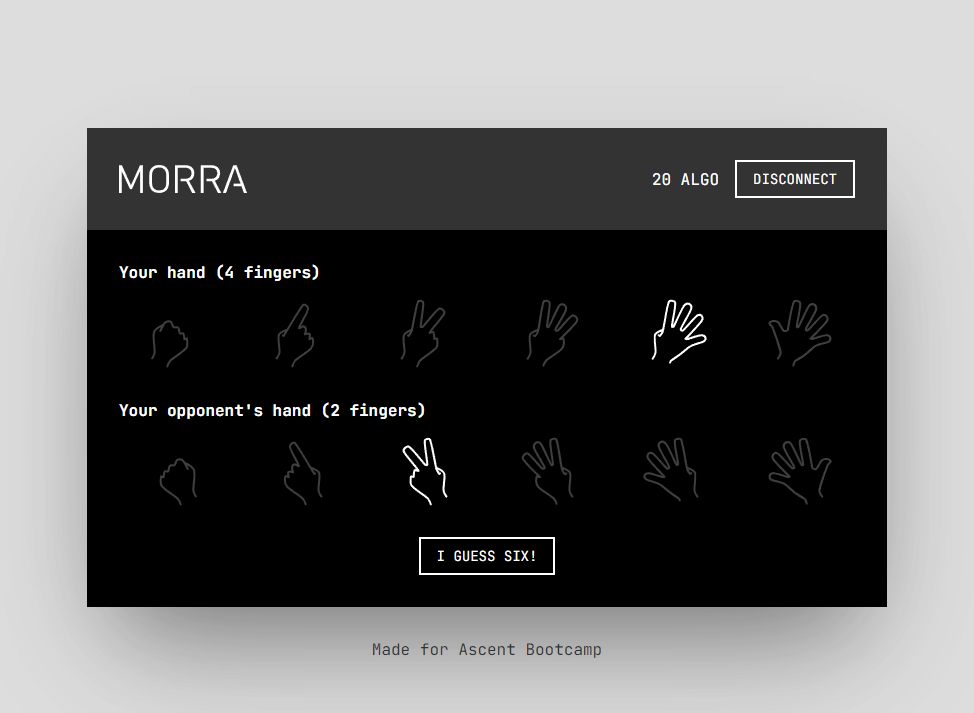
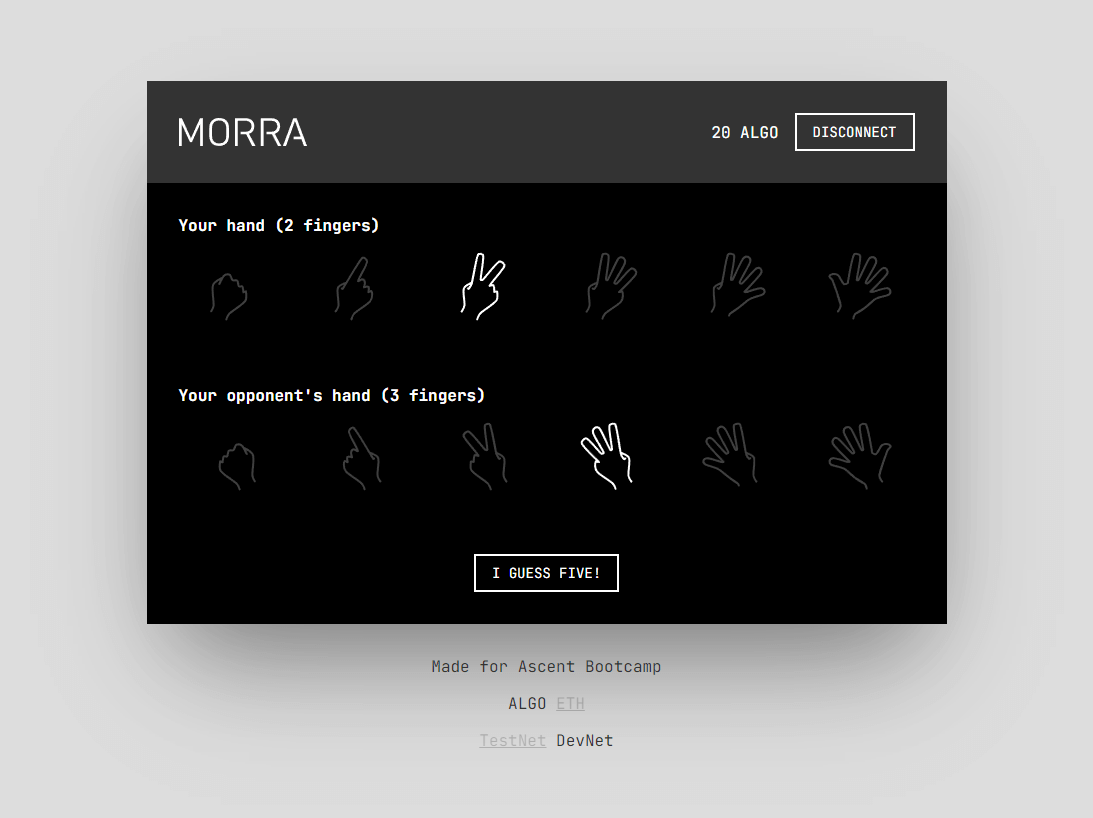
Add ability to switch chain and env

diff --git a/frontend/src/contexts/Reach/Reach.jsx b/frontend/src/contexts/Reach/Reach.jsx
@@ -1,5 +1,6 @@
-import React, { createContext, useContext, useEffect, useRef } from 'react';
+import React, { createContext, useContext, useEffect, useRef, useState } from 'react';
 import { loadStdlib, ALGO_MyAlgoConnect as MyAlgoConnect } from '@reach-sh/stdlib';
+import { useSearchParams } from 'react-router-dom';
 
 const ReachContext = createContext({
   standardToAtomic: () => {},
@@ -7,21 +8,38 @@ const ReachContext = createContext({
 });
 
 export const Reach = ({ children }) => {
-  const stdlib = useRef(loadStdlib('ALGO'));
+  const stdlib = useRef();
+  const [isReady, setIsReady] = useState(false);
+  const [searchParams] = useSearchParams();
+  const chain = searchParams.get('chain') || localStorage.getItem('chain') || 'ALGO';
+  const env = searchParams.get('env') || localStorage.getItem('env') || 'TestNet';
 
   useEffect(() => {
+    localStorage.setItem('chain', chain);
+    localStorage.setItem('env', env);
+
+    stdlib.current = loadStdlib(chain);
+
     stdlib.current.setWalletFallback(
       stdlib.current.walletFallback({
-        providerEnv: 'TestNet',
+        providerEnv: env,
         MyAlgoConnect,
       }),
     );
-  }, []);
+
+    setIsReady(true);
+  }, [chain, env]);
+
+  if (!isReady) {
+    return null;
+  }
 
   return (
     <ReachContext.Provider
       value={{
         ...stdlib.current,
+        chain,
+        env,
         standardToAtomic: stdlib.current.parseCurrency,
         atomicToStandard: amount => stdlib.current.formatCurrency(amount, 4),
       }}

diff --git a/frontend/src/App.jsx b/frontend/src/App.jsx
@@ -65,7 +65,31 @@ export const App = () => {
           </Choice>
         </Styled.Content>
       </Styled.Container>
-      <Styled.Footer>Made for Ascent Bootcamp</Styled.Footer>
+      <Styled.Footer>
+        <p>Made for Ascent Bootcamp</p>
+        <p>
+          <Styled.Link href={`/?chain=ALGO&env=${reach.env}`} $isActive={reach.chain === 'ALGO'}>
+            ALGO
+          </Styled.Link>{' '}
+          <Styled.Link href={`/?chain=ETH&env=${reach.env}`} $isActive={reach.chain === 'ETH'}>
+            ETH
+          </Styled.Link>
+        </p>
+        <p>
+          <Styled.Link
+            href={`/?chain=${reach.chain}&env=TestNet`}
+            $isActive={reach.env === 'TestNet'}
+          >
+            TestNet
+          </Styled.Link>{' '}
+          <Styled.Link
+            href={`/?chain=${reach.chain}&env=LocalHost`}
+            $isActive={reach.env === 'LocalHost'}
+          >
+            DevNet
+          </Styled.Link>
+        </p>
+      </Styled.Footer>
     </>
   );
 };

diff --git a/frontend/src/routes/Deployer/Deployer.jsx b/frontend/src/routes/Deployer/Deployer.jsx
@@ -24,12 +24,16 @@ export const Deployer = ({ onInitContract }) => {
           maxRounds: MAX_ROUNDS,
         },
         async contractInfo => {
-          prompt(
-            'Share this URL with your opponent',
-            `${window.location.href.replace(window.location.hash, '')}#/${window.btoa(
-              JSON.stringify(contractInfo),
-            )}`,
-          );
+          const url = [
+            location.protocol,
+            '//',
+            location.host,
+            location.pathname,
+            window.btoa(JSON.stringify(contractInfo)),
+            `?chain=${reach.chain}&env=${reach.env}`,
+          ].join('');
+
+          prompt('Share this URL with your opponent', url);
 
           navigate('/pending');
         },

diff --git a/frontend/src/contexts/Wallet/Wallet.jsx b/frontend/src/contexts/Wallet/Wallet.jsx
@@ -27,10 +27,17 @@ export const Wallet = ({ children }) => {
   };
 
   const connect = async () => {
-    account.current = await reach.getDefaultAccount();
-    // account.current = await reach.newTestAccount(reach.standardToAtomic(20));
+    try {
+      if (reach.env === 'LocalHost') {
+        account.current = await reach.newTestAccount(reach.standardToAtomic(20));
+      } else {
+        account.current = await reach.getDefaultAccount();
+      }
 
-    await fetchBalance();
+      await fetchBalance();
+    } catch (e) {
+      console.error(e);
+    }
   };
 
   const disconnect = () => {

diff --git a/frontend/src/index.jsx b/frontend/src/index.jsx
@@ -1,6 +1,6 @@
 import React from 'react';
 import { createRoot } from 'react-dom/client';
-import { HashRouter } from 'react-router-dom';
+import { BrowserRouter as Router } from 'react-router-dom';
 import { Wallet, Theme, Reach } from './contexts';
 import { App } from './App';
 
@@ -8,7 +8,7 @@ const container = document.getElementById('root');
 const root = createRoot(container);
 
 root.render(
-  <HashRouter>
+  <Router>
     <Reach>
       <Wallet>
         <Theme>
@@ -16,5 +16,5 @@ root.render(
         </Theme>
       </Wallet>
     </Reach>
-  </HashRouter>,
+  </Router>,
 );

diff --git a/frontend/src/App.styles.jsx b/frontend/src/App.styles.jsx
@@ -1,4 +1,4 @@
-import styled from 'styled-components';
+import styled, { css } from 'styled-components';
 
 export const Container = styled.div`
   max-width: 50rem;
@@ -19,4 +19,16 @@ export const Footer = styled.div`
   padding: 2rem;
   color: ${({ theme }) => theme.colors.primary};
   text-align: center;
+`;
+
+export const Link = styled.a`
+  opacity: 0.25;
+
+  ${({ $isActive }) =>
+    $isActive &&
+    css`
+      opacity: 1;
+      text-decoration: none;
+      pointer-events: none;
+    `}
 `;

diff --git a/frontend/src/components/Choice/Choice.styles.jsx b/frontend/src/components/Choice/Choice.styles.jsx
@@ -10,7 +10,7 @@ export const Hands = styled.div`
   grid-template-columns: 1fr 1fr 1fr;
   grid-gap: 1rem;
   justify-content: space-between;
-  margin-bottom: 2rem;
+  margin-bottom: 4rem;
 
   ${({ theme }) => theme.media.large`
     grid-template-columns: repeat(6, 1fr);

diff --git a/frontend/src/contexts/Theme/Theme.styles.jsx b/frontend/src/contexts/Theme/Theme.styles.jsx
@@ -19,7 +19,7 @@ export const Global = createGlobalStyle`
     background-color: ${({ theme }) => theme.colors.background};
 
     ${({ theme }) => theme.media.large`
-      margin: 8rem 0 0;
+      margin: 10vh 0 0;
     `}
   }
 

diff --git a/README.md b/README.md
@@ -1,6 +1,6 @@
 # Morra in Reach
 
-Source code for morra made with Reach, for the Ascent Bootcamp (Cohort 2). If you need to modify the backend you must setup [Reach](https://docs.reach.sh/quickstart/) and run `./reach compile` from the backend folder.
+Source code for morra made with Reach, for the Ascent Bootcamp (cohort 2). If you need to modify the backend you must setup [Reach](https://docs.reach.sh/quickstart/) and run `./reach compile` from the backend folder.
 
 ### Prerequisites
 
@@ -16,8 +16,6 @@ npm i
 npm start
 ```
 
-The environment is hardcoded to use Algorand so you will need to setup a [MyAlgo](https://wallet.myalgo.com/) testnet wallet and fund it using the [testnet dispenser](https://bank.testnet.algorand.network/).
-
 ### Screenshots
 
 ![Screenshot 1](screenshot1.png)
@@ -29,5 +27,3 @@ The environment is hardcoded to use Algorand so you will need to setup a [MyAlgo
 ![Screenshot 4](screenshot4.png)
 
 ![Screenshot 5](screenshot5.png)
-
-![Screenshot 6](screenshot6.png)
